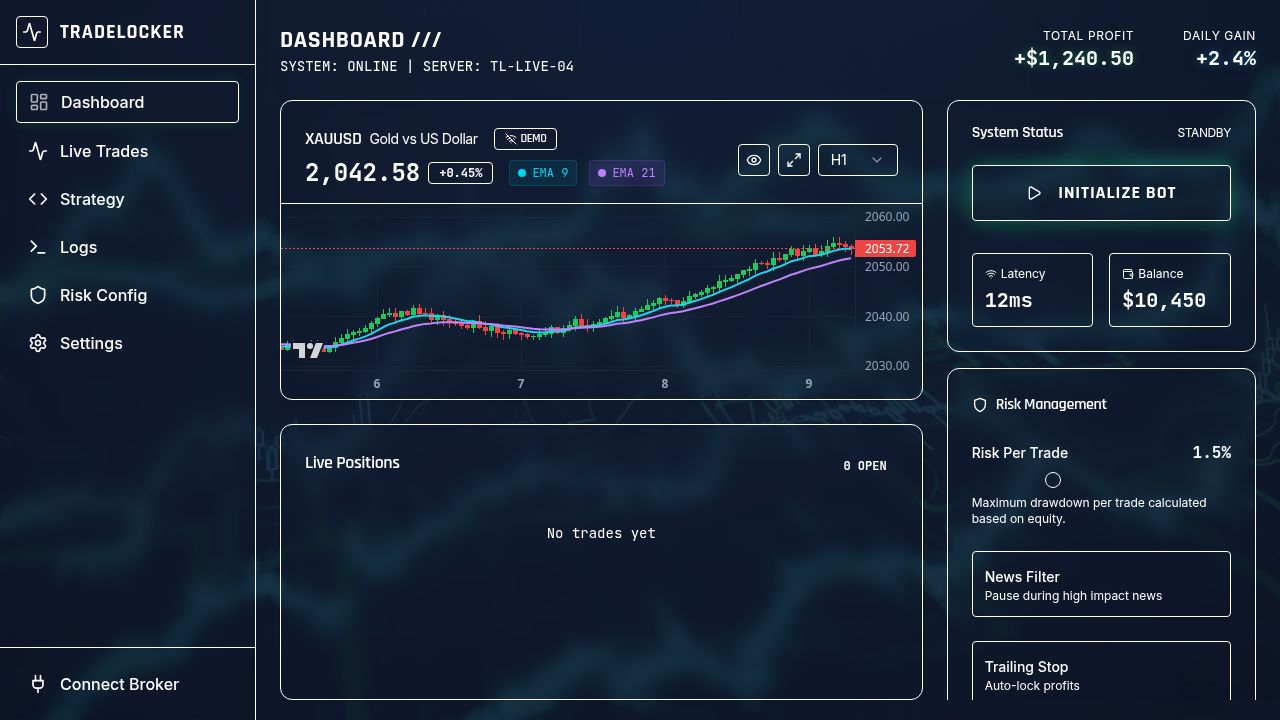
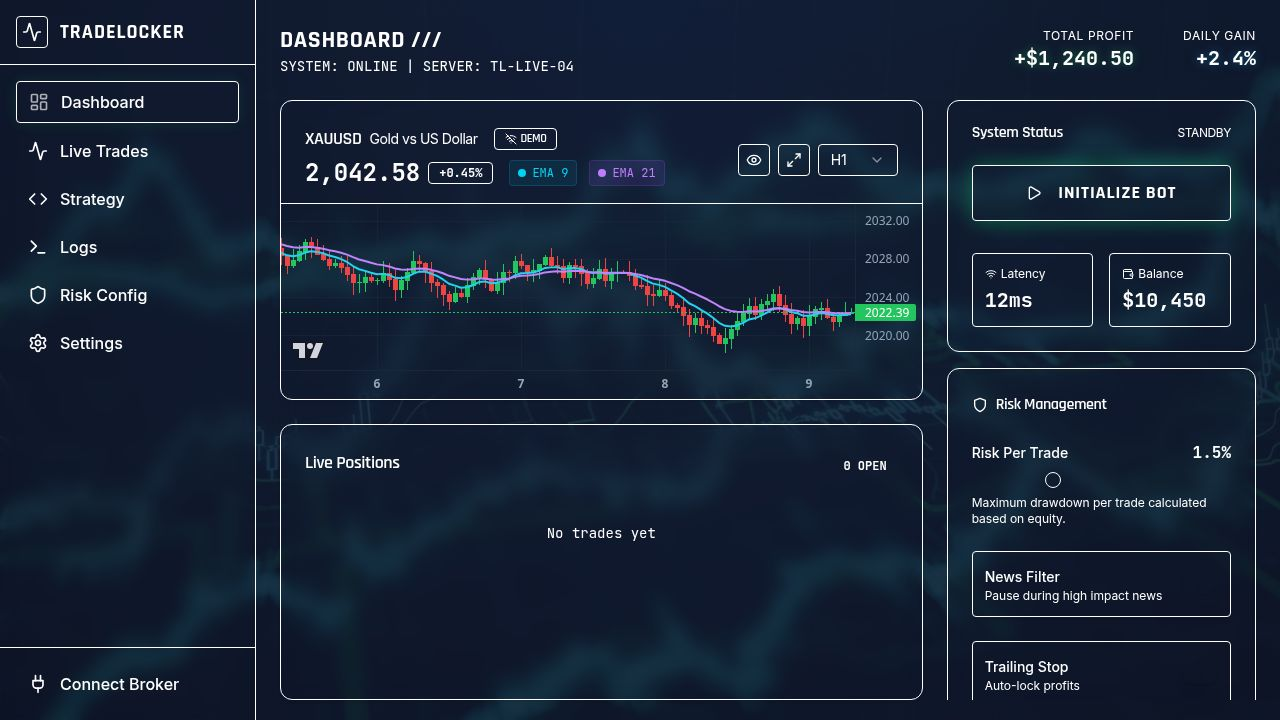
Add support and resistance levels to the market chart display
Introduces calculation and visualization of support and resistance levels on the MarketChart component, including UI toggles and legend integration.

Replit-Commit-Author: Agent
Replit-Commit-Session-Id: 18c4480a-d276-4e89-855b-2ad4b8f667f3
Replit-Commit-Checkpoint-Type: full_checkpoint
Replit-Commit-Event-Id: db71e96d-31d7-456a-ba8c-ea2e585bc152
Replit-Commit-Screenshot-Url: https://storage.googleapis.com/screenshot-production-us-central1/86ea3d28-cad2-4878-9d1e-239fe0a1f02d/18c4480a-d276-4e89-855b-2ad4b8f667f3/FW9Su1a
Replit-Helium-Checkpoint-Created: true

Changed region(s): [[0.2188, 0.275, 0.7188, 0.5194]]

diff --git a/client/src/components/trading/MarketChart.tsx b/client/src/components/trading/MarketChart.tsx
@@ -4,7 +4,7 @@ import { Card, CardContent, CardHeader, CardTitle } from "@/components/ui/card";
 import { Badge } from "@/components/ui/badge";
 import { Button } from "@/components/ui/button";
 import { Select, SelectContent, SelectItem, SelectTrigger, SelectValue } from "@/components/ui/select";
-import { Eye, EyeOff, Maximize2, Wifi, WifiOff } from "lucide-react";
+import { Eye, EyeOff, Maximize2, Wifi, WifiOff, TrendingUp } from "lucide-react";
 import { useBrokerStatus, useBrokerQuotes } from "@/lib/api";
 
 // Generate realistic candlestick data
@@ -44,13 +44,64 @@ const calculateEMA = (data: any[], period: number) => {
   });
 };
 
+// Calculate Support and Resistance Levels
+const calculateSupportResistance = (data: any[], lookback: number = 10) => {
+  const levels: { price: number; type: 'support' | 'resistance'; strength: number }[] = [];
+  
+  // Find swing highs and lows
+  for (let i = lookback; i < data.length - lookback; i++) {
+    let isSwingHigh = true;
+    let isSwingLow = true;
+    
+    for (let j = 1; j <= lookback; j++) {
+      if (data[i].high <= data[i - j].high || data[i].high <= data[i + j].high) {
+        isSwingHigh = false;
+      }
+      if (data[i].low >= data[i - j].low || data[i].low >= data[i + j].low) {
+        isSwingLow = false;
+      }
+    }
+    
+    if (isSwingHigh) {
+      levels.push({ price: data[i].high, type: 'resistance', strength: 1 });
+    }
+    if (isSwingLow) {
+      levels.push({ price: data[i].low, type: 'support', strength: 1 });
+    }
+  }
+  
+  // Cluster nearby levels and increase strength
+  const tolerance = (Math.max(...data.map(d => d.high)) - Math.min(...data.map(d => d.low))) * 0.01;
+  const clusteredLevels: { price: number; type: 'support' | 'resistance'; strength: number }[] = [];
+  
+  levels.forEach(level => {
+    const existingLevel = clusteredLevels.find(
+      l => Math.abs(l.price - level.price) < tolerance && l.type === level.type
+    );
+    
+    if (existingLevel) {
+      existingLevel.strength++;
+      existingLevel.price = (existingLevel.price + level.price) / 2;
+    } else {
+      clusteredLevels.push({ ...level });
+    }
+  });
+  
+  // Sort by strength and return top levels
+  return clusteredLevels
+    .sort((a, b) => b.strength - a.strength)
+    .slice(0, 6);
+};
+
 export function MarketChart() {
   const chartContainerRef = useRef<HTMLDivElement>(null);
   const chartRef = useRef<IChartApi | null>(null);
   const [showStrategy, setShowStrategy] = useState(true);
+  const [showLevels, setShowLevels] = useState(true);
   const [candleSeries, setCandleSeries] = useState<ISeriesApi<"Candlestick"> | null>(null);
   const [fastEmaSeries, setFastEmaSeries] = useState<ISeriesApi<"Line"> | null>(null);
   const [slowEmaSeries, setSlowEmaSeries] = useState<ISeriesApi<"Line"> | null>(null);
+  const [srLevels, setSrLevels] = useState<{ price: number; type: 'support' | 'resistance'; strength: number }[]>([]);
   
   const { data: brokerStatus } = useBrokerStatus();
   const isConnected = brokerStatus?.connected && brokerStatus?.accountNumber;
@@ -125,7 +176,23 @@ export function MarketChart() {
     fastEma.setData(fastEmaData);
     slowEma.setData(slowEmaData);
 
-    // 5. Add Strategy Markers (Signals)
+    // 5. Calculate and Draw Support/Resistance Levels
+    const levels = calculateSupportResistance(initialData, 8);
+    setSrLevels(levels);
+    
+    // Add price lines for S/R levels
+    levels.forEach((level, index) => {
+      candles.createPriceLine({
+        price: level.price,
+        color: level.type === 'resistance' ? '#ef4444' : '#22c55e',
+        lineWidth: level.strength > 2 ? 2 : 1,
+        lineStyle: 2, // Dashed
+        axisLabelVisible: true,
+        title: level.type === 'resistance' ? `R${index + 1}` : `S${index + 1}`,
+      });
+    });
+
+    // 6. Add Strategy Markers (Signals)
     const markers = [];
     for (let i = 20; i < initialData.length; i++) {
       const prevFast = fastEmaData[i-1].value;
@@ -226,6 +293,18 @@ export function MarketChart() {
                 </div>
               </div>
             )}
+            {showLevels && srLevels.length > 0 && (
+              <div className="flex items-center gap-3 text-xs animate-in fade-in">
+                <div className="flex items-center gap-1.5 bg-red-500/10 px-2 py-1 rounded border border-red-500/20">
+                  <div className="w-2 h-0.5 bg-red-400" />
+                  <span className="text-red-400 font-mono">Resistance</span>
+                </div>
+                <div className="flex items-center gap-1.5 bg-green-500/10 px-2 py-1 rounded border border-green-500/20">
+                  <div className="w-2 h-0.5 bg-green-400" />
+                  <span className="text-green-400 font-mono">Support</span>
+                </div>
+              </div>
+            )}
           </div>
         </div>
         <div className="flex gap-2">
@@ -235,8 +314,19 @@ export function MarketChart() {
             className="h-8 w-8 bg-background/50 border-border/50"
             onClick={() => setShowStrategy(!showStrategy)}
             title="Toggle Strategy"
+            data-testid="button-toggle-strategy"
           >
             {showStrategy ? <Eye className="w-4 h-4" /> : <EyeOff className="w-4 h-4" />}
+          </Button>
+          <Button 
+            variant="outline" 
+            size="icon" 
+            className={`h-8 w-8 bg-background/50 border-border/50 ${showLevels ? 'text-primary border-primary/50' : ''}`}
+            onClick={() => setShowLevels(!showLevels)}
+            title="Toggle Support/Resistance Levels"
+            data-testid="button-toggle-levels"
+          >
+            <TrendingUp className="w-4 h-4" />
           </Button>
           <Button variant="outline" size="icon" className="h-8 w-8 bg-background/50 border-border/50">
              <Maximize2 className="w-4 h-4" />
